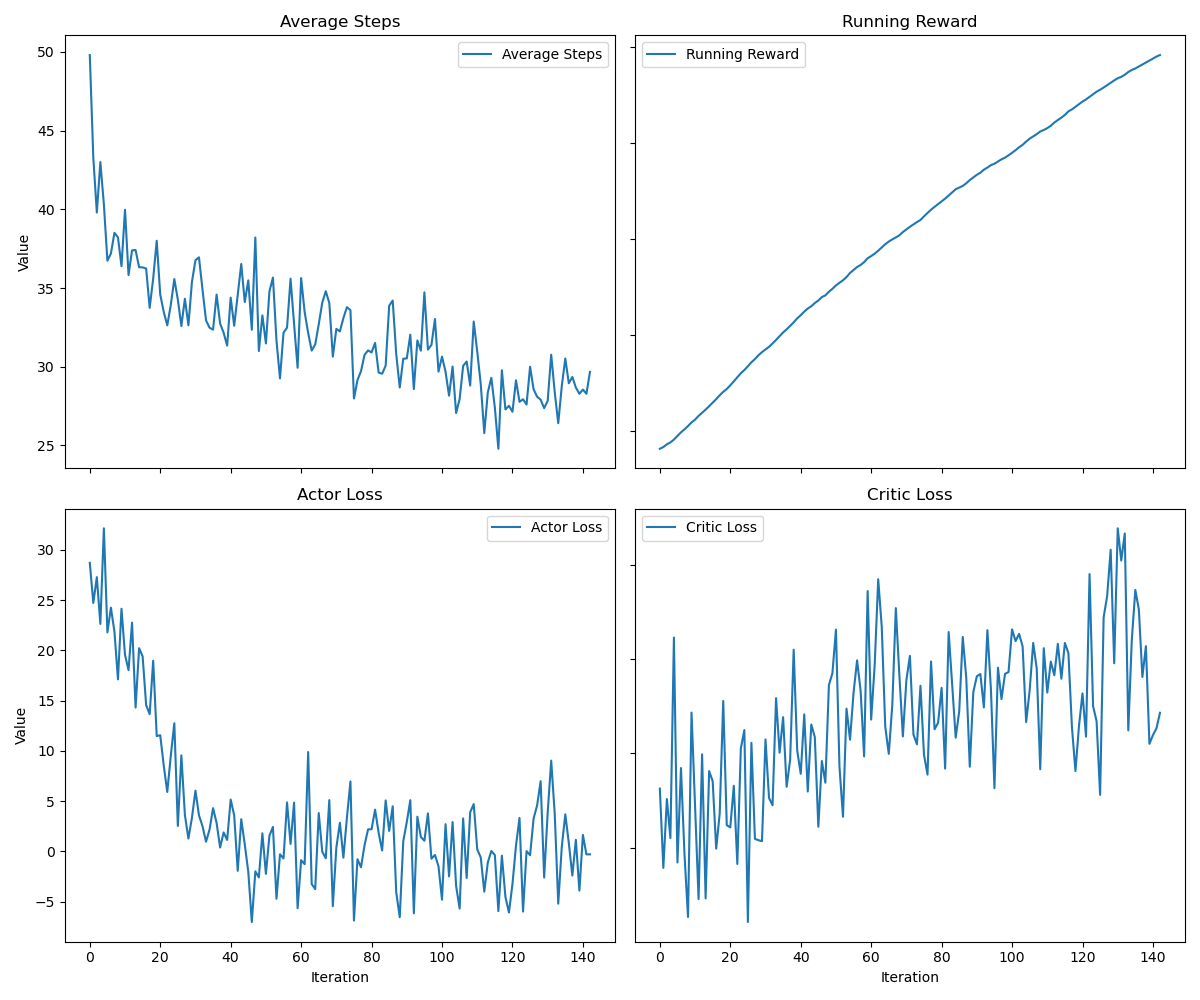
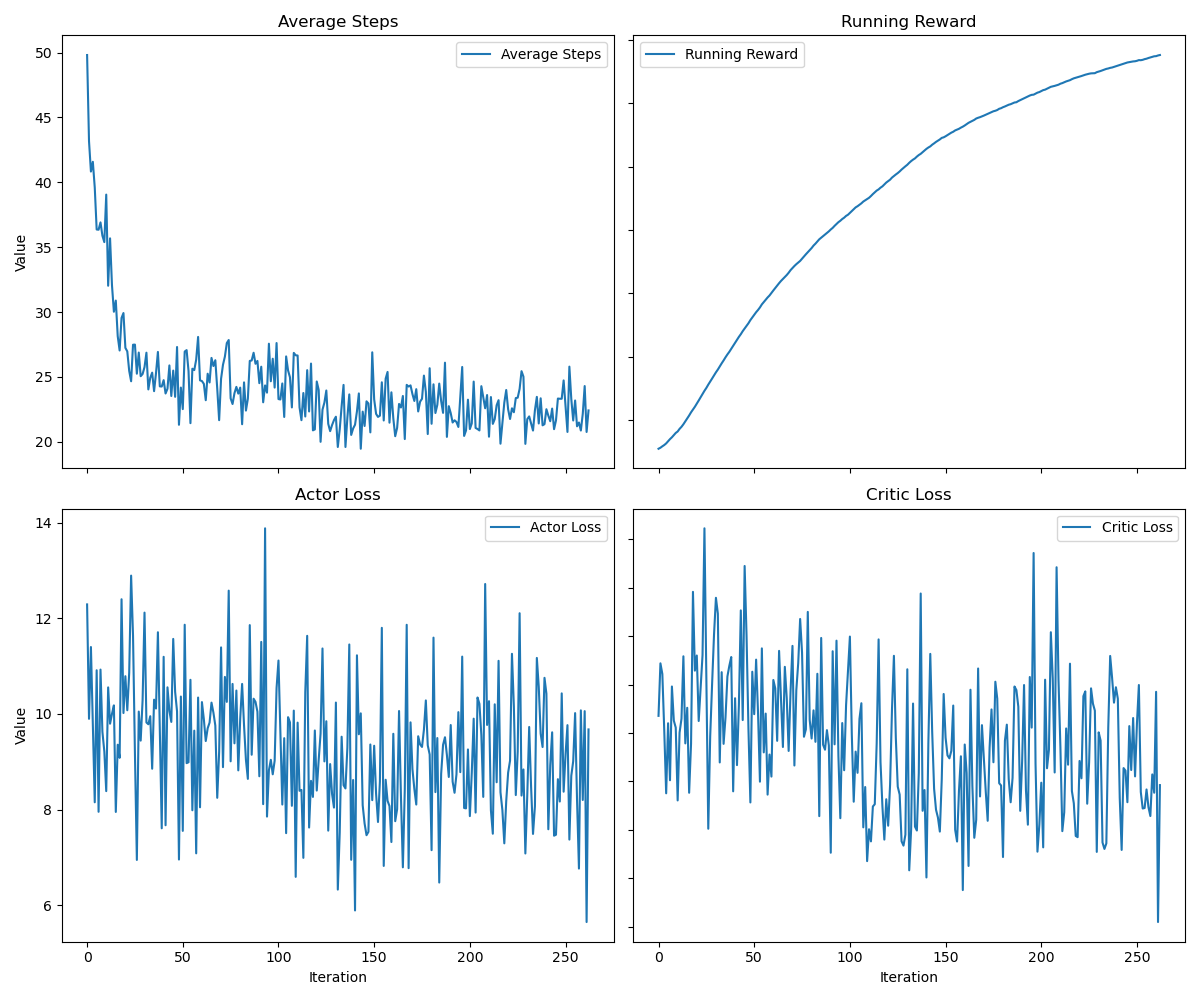
modified learning rate

diff --git a/train.py b/train.py
@@ -94,22 +94,17 @@ class Train:
                 hidden_states_actor,
                 hidden_states_critic,
             ):
-                h_a = hidden_state_actor[:, 0, :].detach().unsqueeze(0).contiguous()
-                c_a = hidden_state_actor[:, 1, :].detach().unsqueeze(0).contiguous()
-                h_c = hidden_state_critic[:, 0, :].detach().unsqueeze(0).contiguous()
-                c_c = hidden_state_critic[:, 1, :].detach().unsqueeze(0).contiguous()
+                h_a = hidden_state_actor[:, 0, :].unsqueeze(0).contiguous()
+                c_a = hidden_state_actor[:, 1, :].unsqueeze(0).contiguous()
+                h_c = hidden_state_critic[:, 0, :].unsqueeze(0).contiguous()
+                c_c = hidden_state_critic[:, 1, :].unsqueeze(0).contiguous()
                 hidden_state_actor = (h_a, c_a)
                 hidden_state_critic = (h_c, c_c)
 
                 # 업데이트된 숨겨진 상태를 사용하여 critic 및 actor 업데이트
                 value, _ = self.agent.critic_forward(state, hidden_state_critic)
-                # clipped_value = old_value + torch.clamp(
-                #     value - old_value, -self.epsilon, self.epsilon
-                # )
-                # clipped_v_loss = (clipped_value - return_).pow(2)
-                # un_clipped_v_loss = (value - return_).pow(2)
-                # critic_loss = 0.5 * torch.max(clipped_v_loss, un_clipped_v_loss).mean()
-                critic_loss = 0.5 * (value - return_).pow(2).mean()
+
+                critic_loss = (value - adv).pow(2).mean()
 
                 new_dist, _ = self.agent.actor_forward(state, hidden_state_actor)
                 new_log_prob = new_dist.log_prob(action).sum(dim=1)
@@ -293,6 +288,11 @@ class Train:
         for env_idx in range(num_envs):
             gae = 0
             for t in reversed(range(done_times[env_idx])):
+                # print(f"done:", dones[env_idx, t])
+                # print(f"reward:", rewards[env_idx, t])
+                # print(f"value:", values[env_idx, t])
+                # print(f"next_value:", values[env_idx, t + 1])
+                # print(f"t:", t)
                 delta = (
                     rewards[env_idx, t]
                     + gamma * values[env_idx, t + 1] * (1 - dones[env_idx, t])

diff --git a/environment.py b/environment.py
@@ -44,11 +44,11 @@ class Env:
         # 수정된 이미지를 모델과 동일한 장치로 이동
         modified_image = modified_image.to(self.device)
         new_prediction = self.classifier(modified_image)
-        new_prediction = torch.softmax(new_prediction, dim=1)
 
         reward = self.calculate_reward(new_prediction)
+        argmax_new_prediction = torch.argmax(new_prediction, dim=1)
 
-        done = self.original_class != torch.argmax(new_prediction, dim=1)
+        done = self.original_class != argmax_new_prediction
         done = done.float()
 
         self.current_state = modified_image
@@ -87,10 +87,11 @@ class Env:
 
     def calculate_reward(self, classifier_results):
         with torch.no_grad():
+            classifier_results = torch.softmax(classifier_results, dim=1)
             batch_indices = torch.arange(classifier_results.size(0)).to(self.device)
             selected_probs = classifier_results[batch_indices, self.original_class]
             safe_values = torch.clamp(1 - selected_probs, min=1e-8, max=1.0 - 1e-5)
-            reward = torch.log(safe_values).cpu()
+            reward = torch.log10(safe_values).cpu()
 
         return reward
 

diff --git a/agent.py b/agent.py
@@ -20,8 +20,8 @@ class Agent:
         )
         self.critic = Critic(n_states=self.n_states).to(self.device)
 
-        self.actor_optimizer = Adam(self.actor.parameters(), lr=self.lr, eps=1e-5)
-        self.critic_optimizer = Adam(self.critic.parameters(), lr=5e-5, eps=1e-5)
+        self.actor_optimizer = Adam(self.actor.parameters(), eps=1e-5)
+        self.critic_optimizer = Adam(self.critic.parameters(), eps=1e-5)
 
         self.critic_loss = torch.nn.MSELoss()
 

diff --git a/main.py b/main.py
@@ -10,7 +10,7 @@ ENV_NAME = "AdversarialRL"
 
 
 n_iterations = 50000
-lr = 1e-5
+lr = 0.001
 epochs = 10
 clip_range = 0.2
 mini_batch_size = 256
